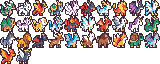
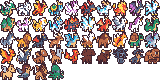
[FEATURE] TWELVE MORE MYTH CREATURES FROM god-pet-03, AND THE THIRTY-TWO EXISTING TILES KEEP THEIR INDEX
`myth.png` grows from 32 to 44 tiles, a 10x5 grid. Packed with all three source
images in their original order, because pet_species references a tile by INDEX:
inserting a new image ahead of an existing one changes the creature a learner
already owns, and nothing reports it. The first thirty-two tiles were compared
pixel for pixel against the current sheet before overwriting it.

Both tile counts move together — CREATURE_SHEET_TILES on the API side and
CREATURE_SHEETS on the web side — since a sheet that has grown while one table
still says 32 draws the wrong tile rather than failing.

Tile 35 is machine-flagged as hard to read and kept anyway, following the policy
already written in CREDITS: filtering at packing time decides for the content
editor, and a dropped tile has no path back into view.

The licence for god-pet-03.png is still unknown, like the other two.

diff --git a/apps/web/src/components/petland-sprite.ts b/apps/web/src/components/petland-sprite.ts
@@ -46,7 +46,7 @@ export type CreatureSheet = {
 export const CREATURE_SHEETS: Record<CreatureSheetId, CreatureSheet> = {
   creatures: { url: "/pet/creatures.png", cols: 10, rows: 18, tiles: 180 },
   dinos: { url: "/pet/dinos.png", cols: 10, rows: 2, tiles: 16 },
-  myth: { url: "/pet/myth.png", cols: 10, rows: 4, tiles: 32 },
+  myth: { url: "/pet/myth.png", cols: 10, rows: 5, tiles: 44 },
 };
 
 export const DEFAULT_CREATURE_SHEET: CreatureSheetId = "creatures";

diff --git a/apps/api/app/models/pet.py b/apps/api/app/models/pet.py
@@ -123,7 +123,7 @@ class PetState(Base):
 CREATURE_SHEET_TILES: dict[str, int] = {
     "creatures": 180,
     "dinos": 16,
-    "myth": 32,
+    "myth": 44,
 }
 DEFAULT_CREATURE_SHEET = "creatures"
 

diff --git a/apps/web/public/pet/CREDITS.md b/apps/web/public/pet/CREDITS.md
@@ -63,8 +63,8 @@ vẽ nhầm ô, nên không có gì báo.
 
 **Hai tệp này đang thiếu đúng thứ mà tài liệu này tồn tại để ghi.** Chúng được
 đóng bằng `app.content.pack_sprites` từ `~/Downloads/dinasour-assets.png`,
-`god-pet.png` và `god-pet-02.png`; cả ba ảnh gốc có nền magenta phẳng — dấu vết
-của một đường sinh ảnh. Nhưng "sinh bằng model nào, hay tải từ đâu" thì chưa ai
+`god-pet.png`, `god-pet-02.png` và `god-pet-03.png`; cả bốn ảnh gốc có nền
+magenta phẳng — dấu vết của một đường sinh ảnh. Nhưng "sinh bằng model nào, hay tải từ đâu" thì chưa ai
 ghi lại, nên **giấy phép chưa biết**.
 
 Đừng suy ra từ việc nó trông giống hàng tự sinh. Cùng kỷ luật với
@@ -74,7 +74,12 @@ không phải là một phỏng đoán.
 Cần điền trước khi phát hành: nguồn, tác giả (nếu có), giấy phép. Nếu nó do
 chính dự án sinh ra thì ghi model và ngày, và chuyện bản quyền chấm dứt ở đó.
 
-`myth.png` giữ **cả 32 ô**, kể cả những ô đọc kém. Chất lượng chênh nhau rõ giữa
+`myth.png` giữ **cả 44 ô**, kể cả những ô đọc kém. Ô 32–43 đến từ
+`god-pet-03.png`, thêm ngày 2026-09-08; ba mươi hai ô đầu giữ nguyên **từng
+pixel**, và điều đó được kiểm trước khi ghi chứ không phải suy ra — `pet_species`
+tham chiếu ô theo CHỈ SỐ, nên một ô xê dịch là một loài đang nuôi đổi hình mà
+không gì báo. Thứ tự `--input` là thứ giữ chỉ số đứng yên: thêm ảnh mới vào
+CUỐI, không bao giờ chèn vào giữa. Chất lượng chênh nhau rõ giữa
 hai ảnh gốc — `god-pet-02.png` ra 16 ô sạch, `god-pet.png` thì phần lớn nhoè — và
 khác biệt nằm ở **cỡ pixel của ảnh gốc**, không ở đề tài: bộ sau vẽ khối to hơn
 hẳn nên phép thu về 16×16 giữ được hình. Xem `PETLAND-SPRITE-PROMPTS.md` §0.
